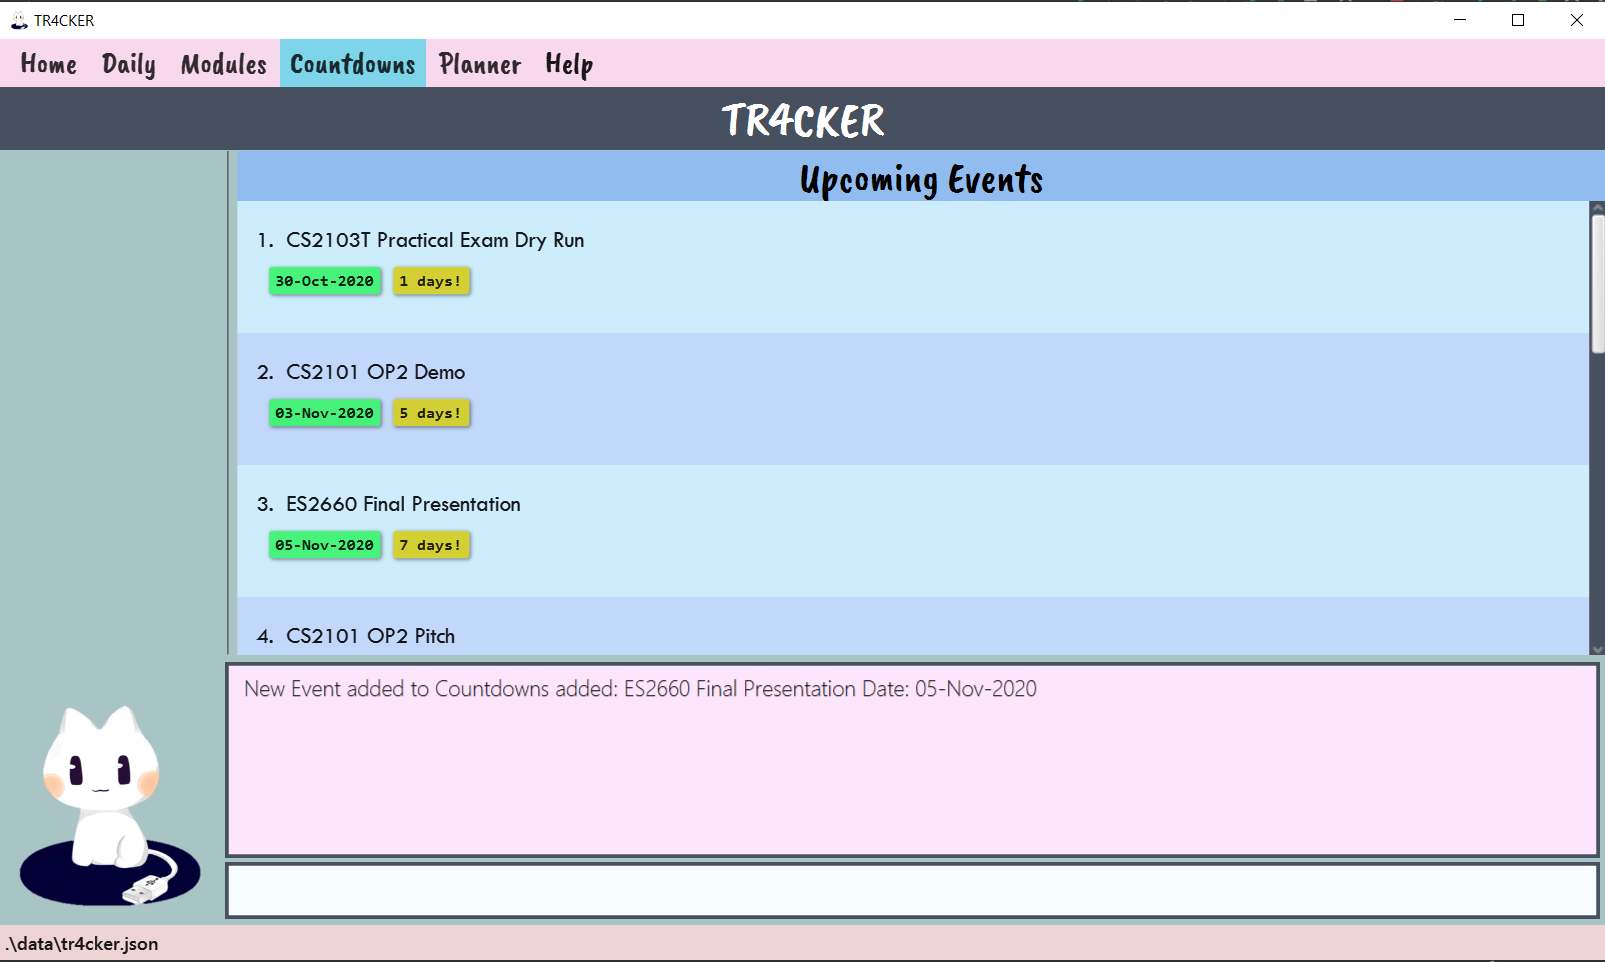
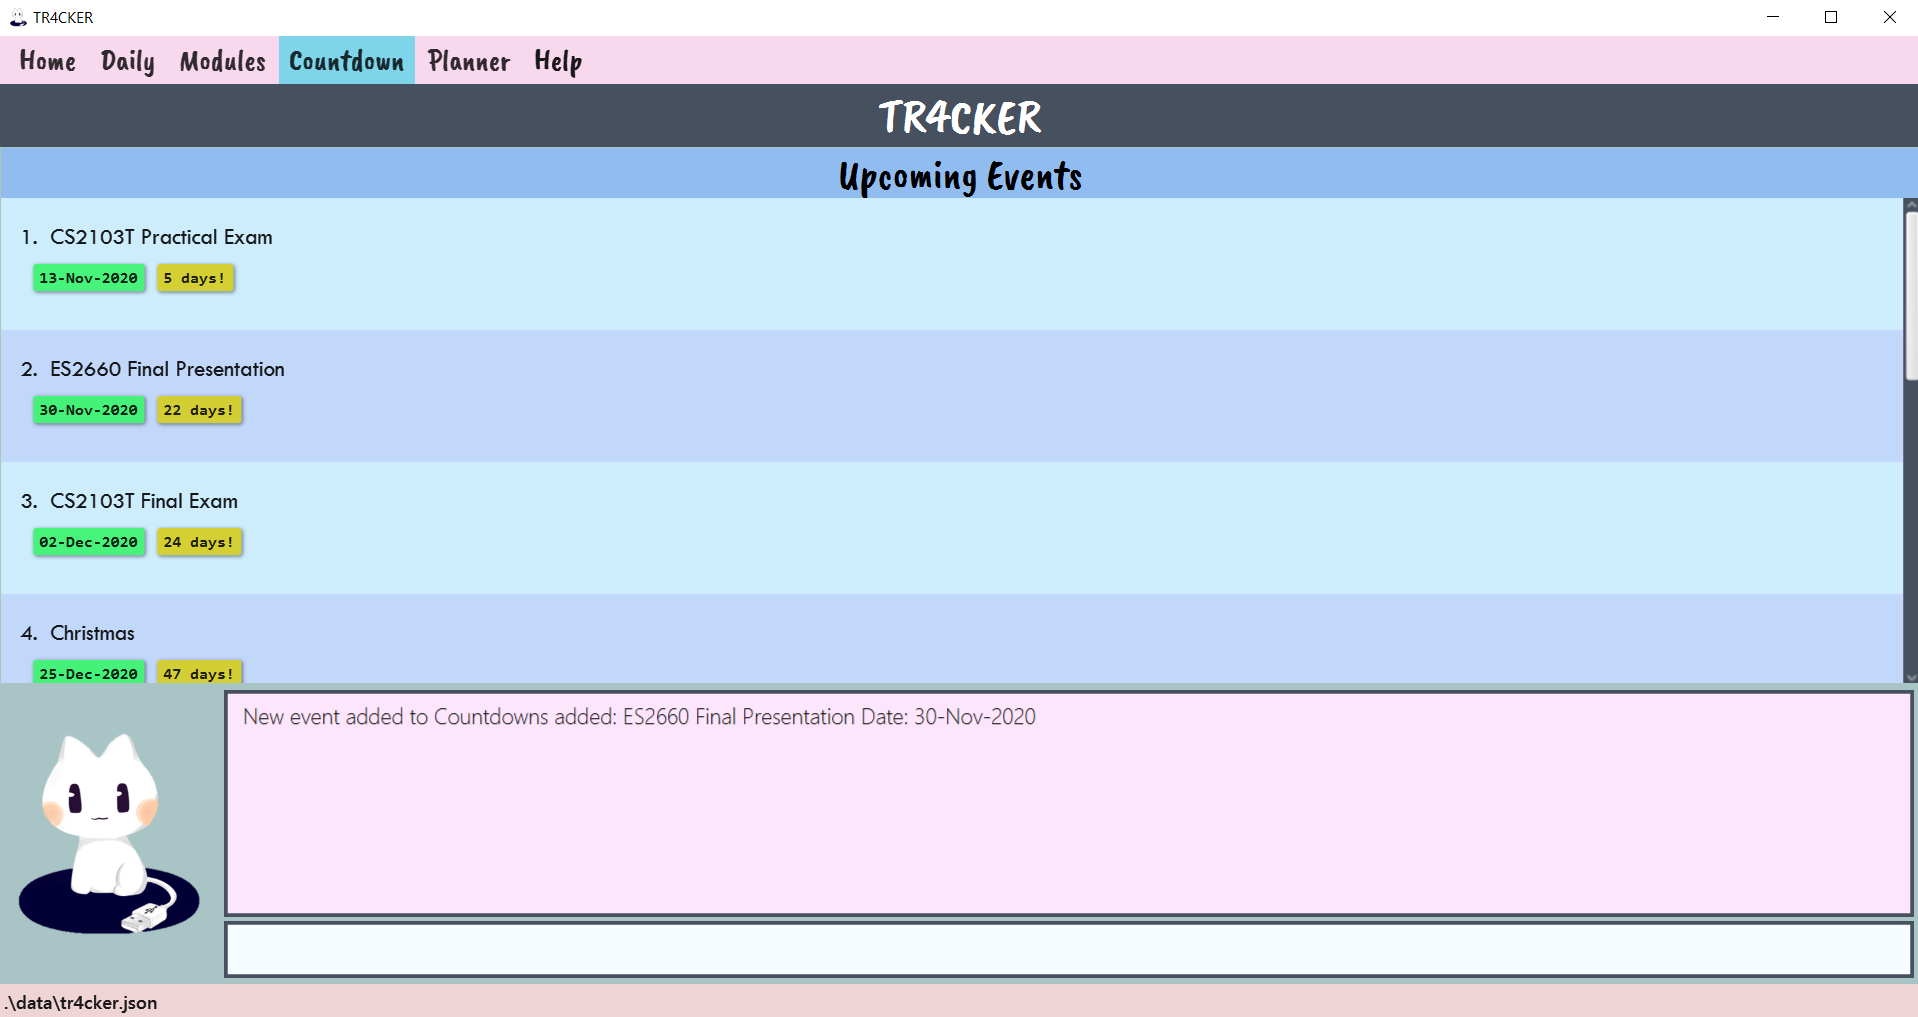
Standardise screenshots for Countdown tab

Changed region(s): [[0.0, 0.0, 1.0, 1.0]]

diff --git a/docs/UserGuide.md b/docs/UserGuide.md
@@ -546,6 +546,7 @@ To switch to the Countdown tab, simply type `countdown` into the command line. Y
 on the tabs menu at the top.
 
 Format: `countdown`
+
 Once you have entered this command, TR4CKER should look like this:
 ![switch tab](images/countdowntab_switchtab.png)
 Figure 21: TR4CKER after executing `countdown`
@@ -574,7 +575,7 @@ at Scarlets` with date `31-Dec-2020` to the Countdowns list of events.
 Countdowns list of events.
 
 ![add_new](images/countdowntab_addnew.png)
-Figure 22: TR4CKER after executing `countdown n/ES2660 Final Presentation d/05-Nov-2020`
+Figure 22: TR4CKER after executing `countdown n/ES2660 Final Presentation d/30-Nov-2020`
 
 ### 3.5.3. Deleting an event from countdowns list
 You can delete an event from your list of events if you no longer want to countdown to it, or if it is over.
